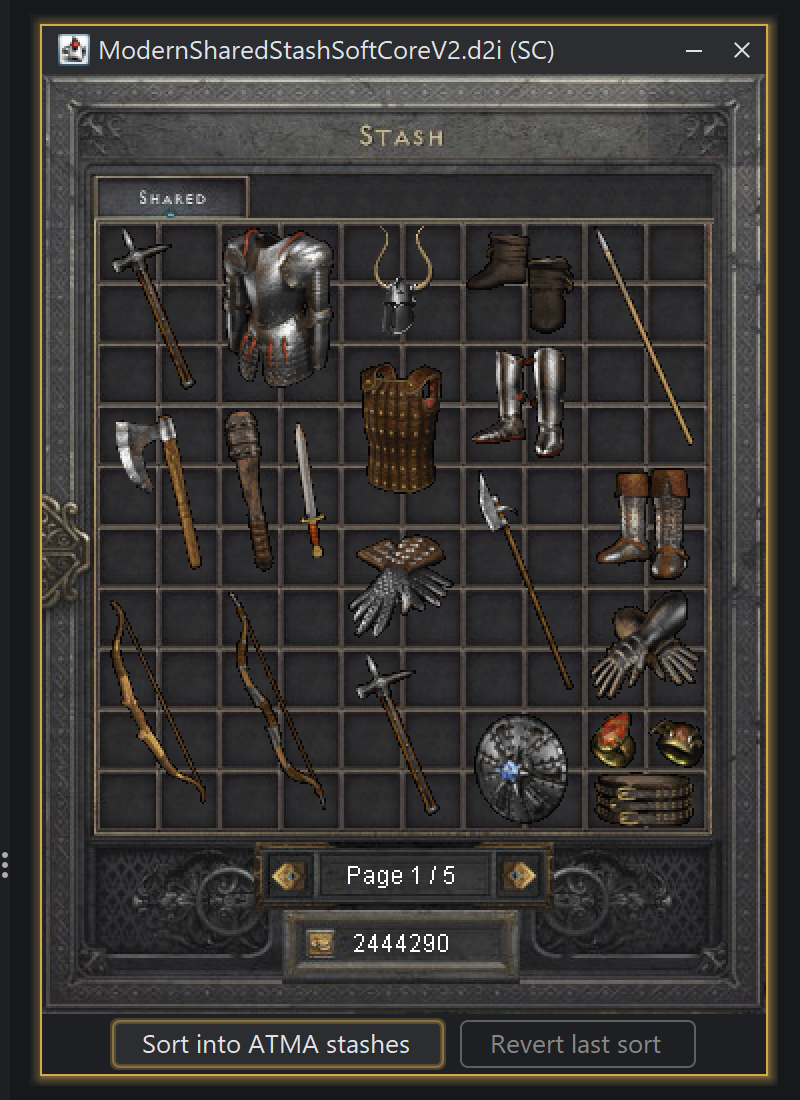
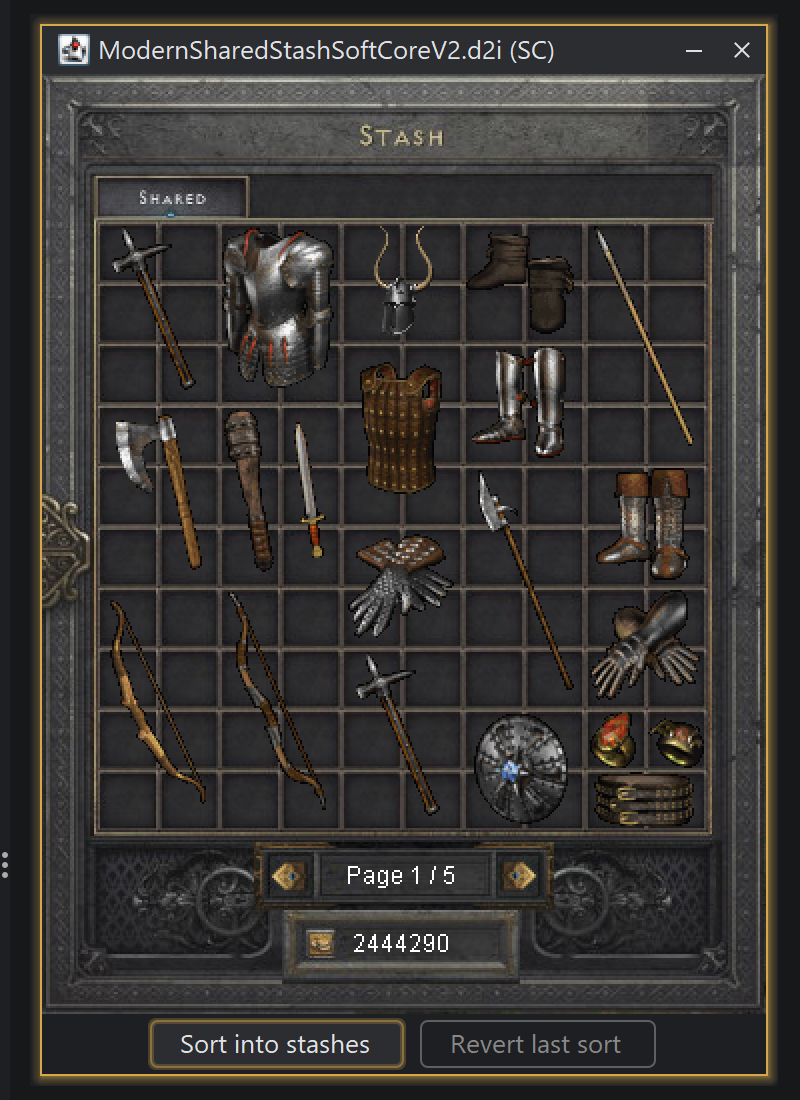
Labeling and README changes. (AI)

Changed region(s): [[0.125, 0.9273, 0.875, 0.9891]]

diff --git a/GoMule/src/main/java/gomule/gui/sharedStash/SharedStashSortAction.java b/GoMule/src/main/java/gomule/gui/sharedStash/SharedStashSortAction.java
@@ -16,7 +16,7 @@ import java.util.Map;
 import java.util.stream.Collectors;
 
 /**
- * The "Sort into ATMA stashes" button: previews where each shared stash item would go, then moves them.
+ * The "Sort into stashes" button: previews where each shared stash item would go, then moves them.
  */
 class SharedStashSortAction {
 
@@ -31,17 +31,17 @@ class SharedStashSortAction {
         if (sharedStash == null || fileManager.getProject() == null) return Collections.emptyList();
         Map<String, List<StashSortRule>> rulesByStash = fileManager.getProject().getAllStashSortRules();
         if (rulesByStash.isEmpty()) {
-            JOptionPane.showMessageDialog(panel, "No ATMA stash has sorting rules yet.\n"
-                    + "Right-click a .d2x stash in the project tree and choose \"Sorting rules...\".", "Sort into ATMA stashes", JOptionPane.INFORMATION_MESSAGE);
+            JOptionPane.showMessageDialog(panel, "No stash has sorting rules yet.\n"
+                    + "Right-click a .d2x stash in the project tree and choose \"Sorting rules...\".", "Sort into stashes", JOptionPane.INFORMATION_MESSAGE);
             return Collections.emptyList();
         }
         SharedStashSorter.Plan plan = SharedStashSorter.plan(sharedStash, rulesByStash);
         String summary = describe(plan);
         if (plan.getMoves().isEmpty()) {
-            JOptionPane.showMessageDialog(panel, new Object[]{"Nothing to move.", previewPane(summary)}, "Sort into ATMA stashes", JOptionPane.INFORMATION_MESSAGE);
+            JOptionPane.showMessageDialog(panel, new Object[]{"Nothing to move.", previewPane(summary)}, "Sort into stashes", JOptionPane.INFORMATION_MESSAGE);
             return Collections.emptyList();
         }
-        int answer = JOptionPane.showConfirmDialog(panel, new Object[]{previewPane(summary), "Move these items now?"}, "Sort into ATMA stashes",
+        int answer = JOptionPane.showConfirmDialog(panel, new Object[]{previewPane(summary), "Move these items now?"}, "Sort into stashes",
                 JOptionPane.OK_CANCEL_OPTION, JOptionPane.QUESTION_MESSAGE);
         if (answer != JOptionPane.OK_OPTION) return Collections.emptyList();
 
@@ -51,7 +51,7 @@ class SharedStashSortAction {
         int movedCount = moved.values().stream().mapToInt(Integer::intValue).sum();
         if (movedCount < plan.getMoves().size()) {
             JOptionPane.showMessageDialog(panel, (plan.getMoves().size() - movedCount)
-                    + " items stayed in the shared stash because their ATMA stash could not be opened.", "Sort into ATMA stashes", JOptionPane.WARNING_MESSAGE);
+                    + " items stayed in the shared stash because their stash could not be opened.", "Sort into stashes", JOptionPane.WARNING_MESSAGE);
         }
         return movedItems;
     }
@@ -73,7 +73,7 @@ class SharedStashSortAction {
         notReverted.addAll(stillLoaded.get(false));
         panel.build();
         if (!notReverted.isEmpty()) {
-            JOptionPane.showMessageDialog(panel, new Object[]{notReverted.size() + " items stayed in their ATMA stash (moved or saved since the sort, or no room left):",
+            JOptionPane.showMessageDialog(panel, new Object[]{notReverted.size() + " items stayed in their stash (moved or saved since the sort, or no room left):",
                     previewPane(notReverted.stream().map(moved -> moved.getItem().getItemName() + " in " + stashName(moved.getStashFileName()))
                             .collect(Collectors.joining("\n")))}, "Revert last sort", JOptionPane.WARNING_MESSAGE);
         }

diff --git a/GoMule/src/main/java/gomule/gui/sharedStash/D2ViewSharedStash.java b/GoMule/src/main/java/gomule/gui/sharedStash/D2ViewSharedStash.java
@@ -38,8 +38,8 @@ public class D2ViewSharedStash extends JInternalFrame implements D2ItemContainer
         ToolTipManager.sharedInstance().setDismissDelay(40000);
         ToolTipManager.sharedInstance().setInitialDelay(300);
         sharedStashPanel = new SharedStashPanel(fileManager, this);
-        JButton sortButton = new JButton("Sort into ATMA stashes");
-        sortButton.setToolTipText("Move every item that matches one ATMA stash's sorting rules into that stash");
+        JButton sortButton = new JButton("Sort into stashes");
+        sortButton.setToolTipText("Move every item that matches one stash's sorting rules into that stash");
         sortButton.addActionListener(e -> {
             List<SharedStashSorter.MovedItem> moved = SharedStashSortAction.run(sharedStashPanel, fileManager);
             if (!moved.isEmpty()) setLastSort(moved);

diff --git a/README.md b/README.md
@@ -1,20 +1,16 @@
 <div align="center">
 
-# GoMule, extended
+# GoMule
 
-**A [GoMule](https://github.com/silospen/gomule) fork for D2R 3.4: dark theme, shared stash auto-sort, roll columns, smarter search.**
+**A [GoMule](https://gomule.sourceforge.io) fork**
 
-<img src="screenshots/overview.png" alt="Modern dark theme with an ATMA stash showing Roll % and Roll columns" width="100%">
+<img src="screenshots/overview.png" alt="Modern dark theme with a stash showing Roll % and Roll columns" width="100%">
 
 </div>
-
-> [!NOTE]
-> Only the fork's additions are listed here. Original notes: [`GoMule/README.txt`](GoMule/README.txt).
 
 ## Modern dark theme
 
 - New default look, with gold accents and striped tables. Switch under **File > Switch Appearance**.
-- Open files show in gold in the project tree.
 
 ## Shared stash auto-sort
 
@@ -22,7 +18,7 @@
 <tr>
 <td width="42%" valign="top">
 
-**1. Rules:** right-click an ATMA stash, then **Sorting rules...**. An item must match every section you fill in.
+**1. Rules:** right-click a stash, then **Sorting rules...**. An item must match every section you fill in.
 
 </td>
 <td><img src="screenshots/sort-rules.png" alt="Sorting rules for Set - Aldur.d2x" width="100%"></td>
@@ -30,7 +26,7 @@
 <tr>
 <td valign="top">
 
-**2. Sort:** press **Sort into ATMA stashes**.
+**2. Sort:** press **Sort into stashes**.
 
 </td>
 <td><img src="screenshots/shared-stash.png" alt="Shared stash with Sort and Revert buttons" width="60%"></td>
@@ -47,7 +43,7 @@
 </tr>
 </table>
 
-You can also drag a shared stash item onto an ATMA stash in the tree.
+You can also drag a shared stash item onto a stash in the tree.
 
 ## Roll columns
 
